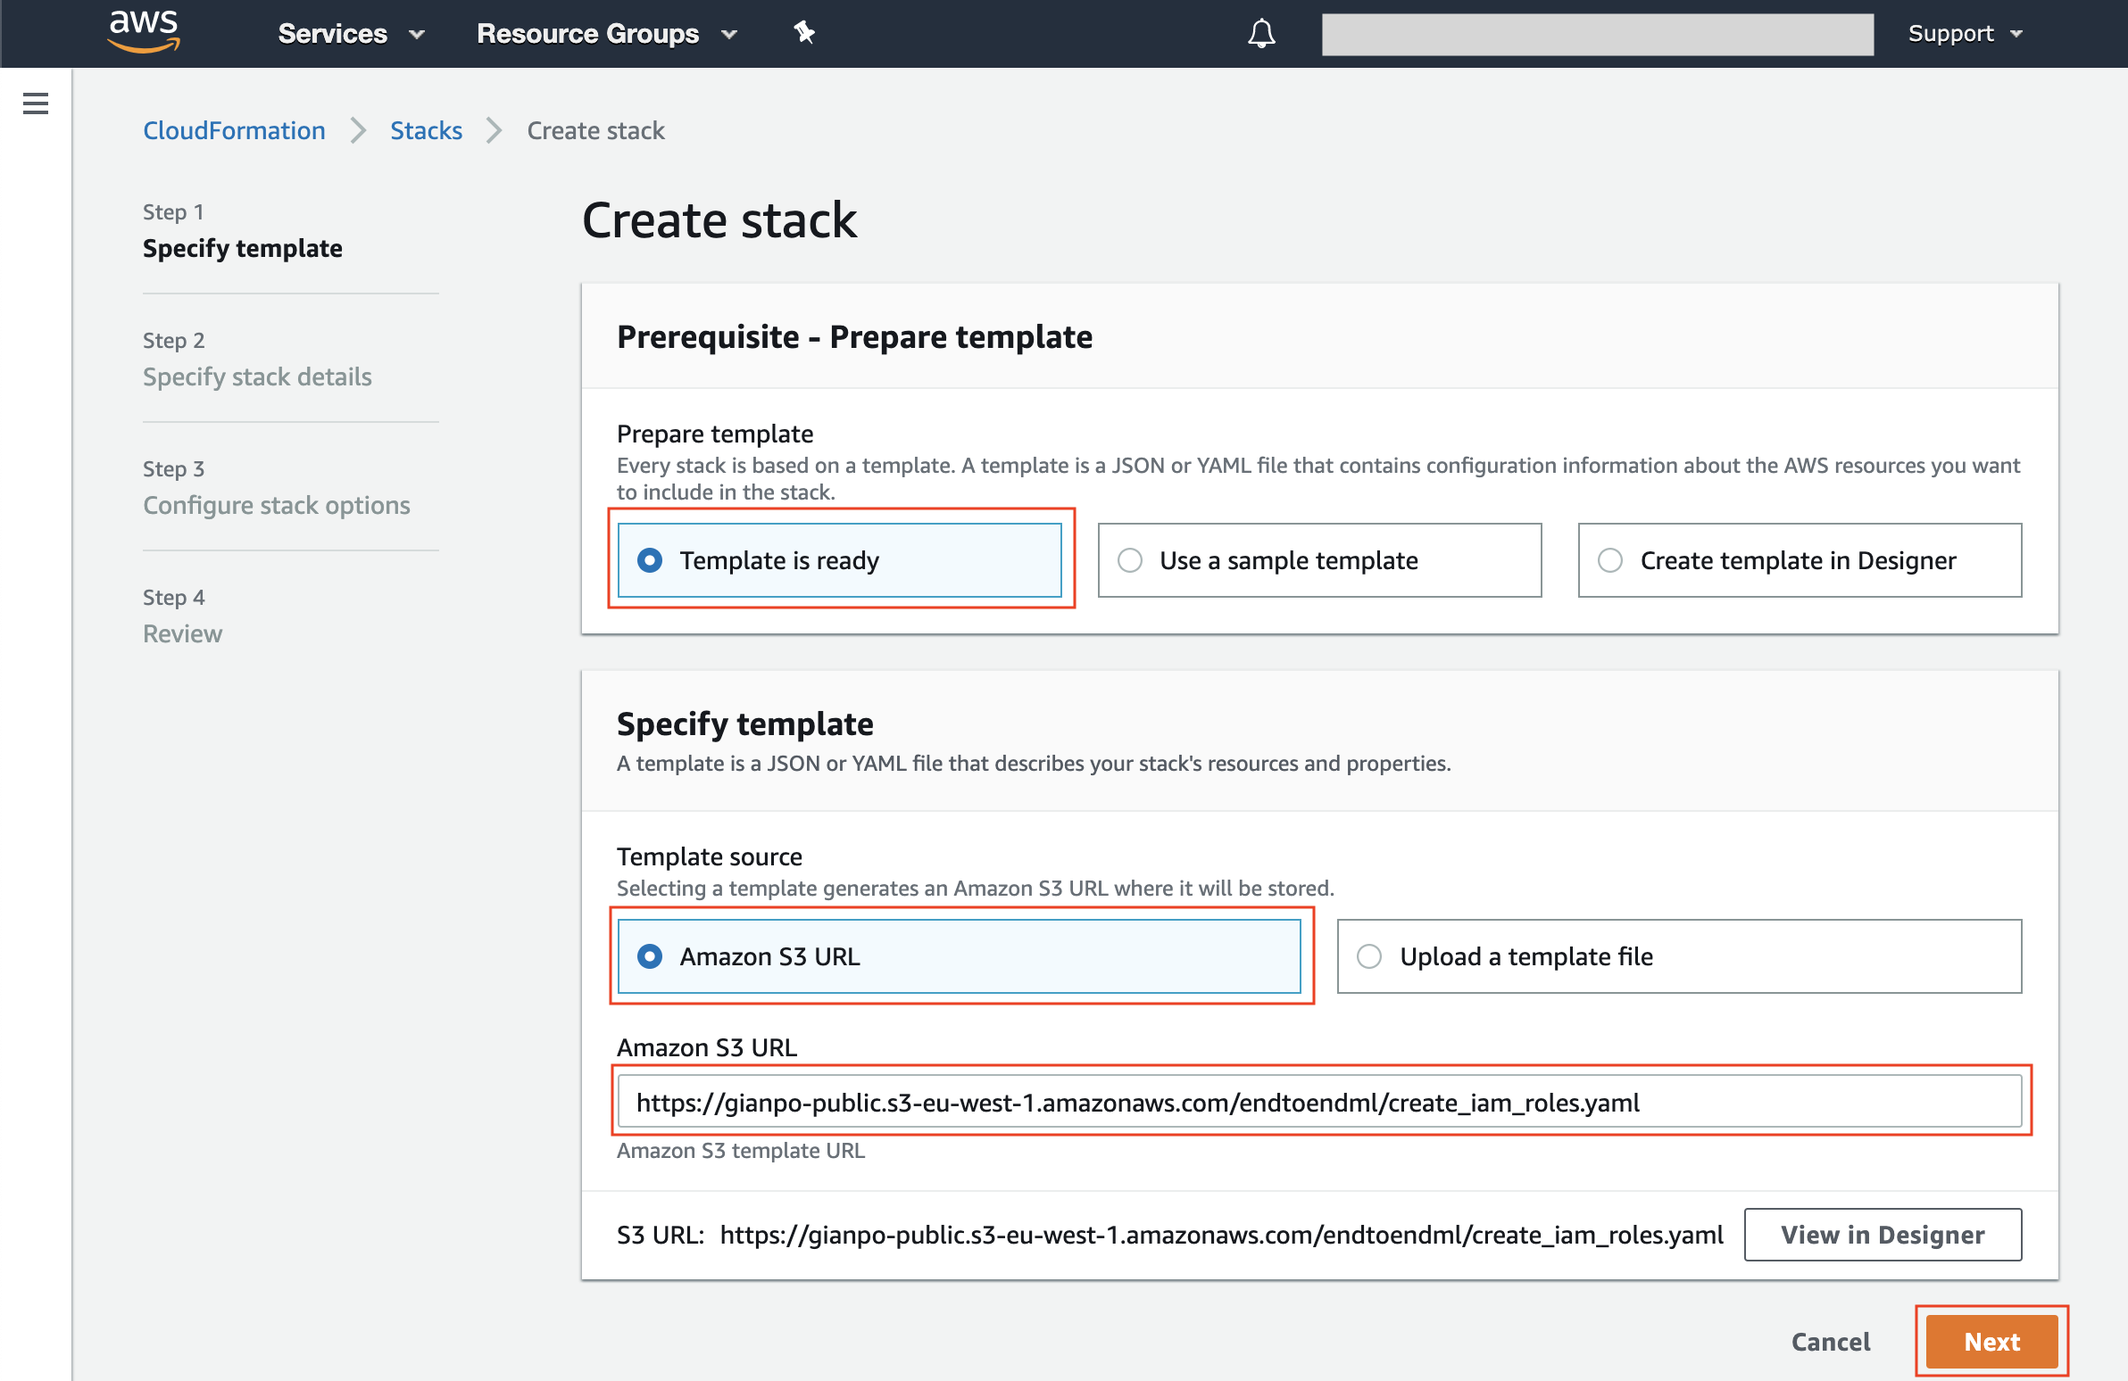
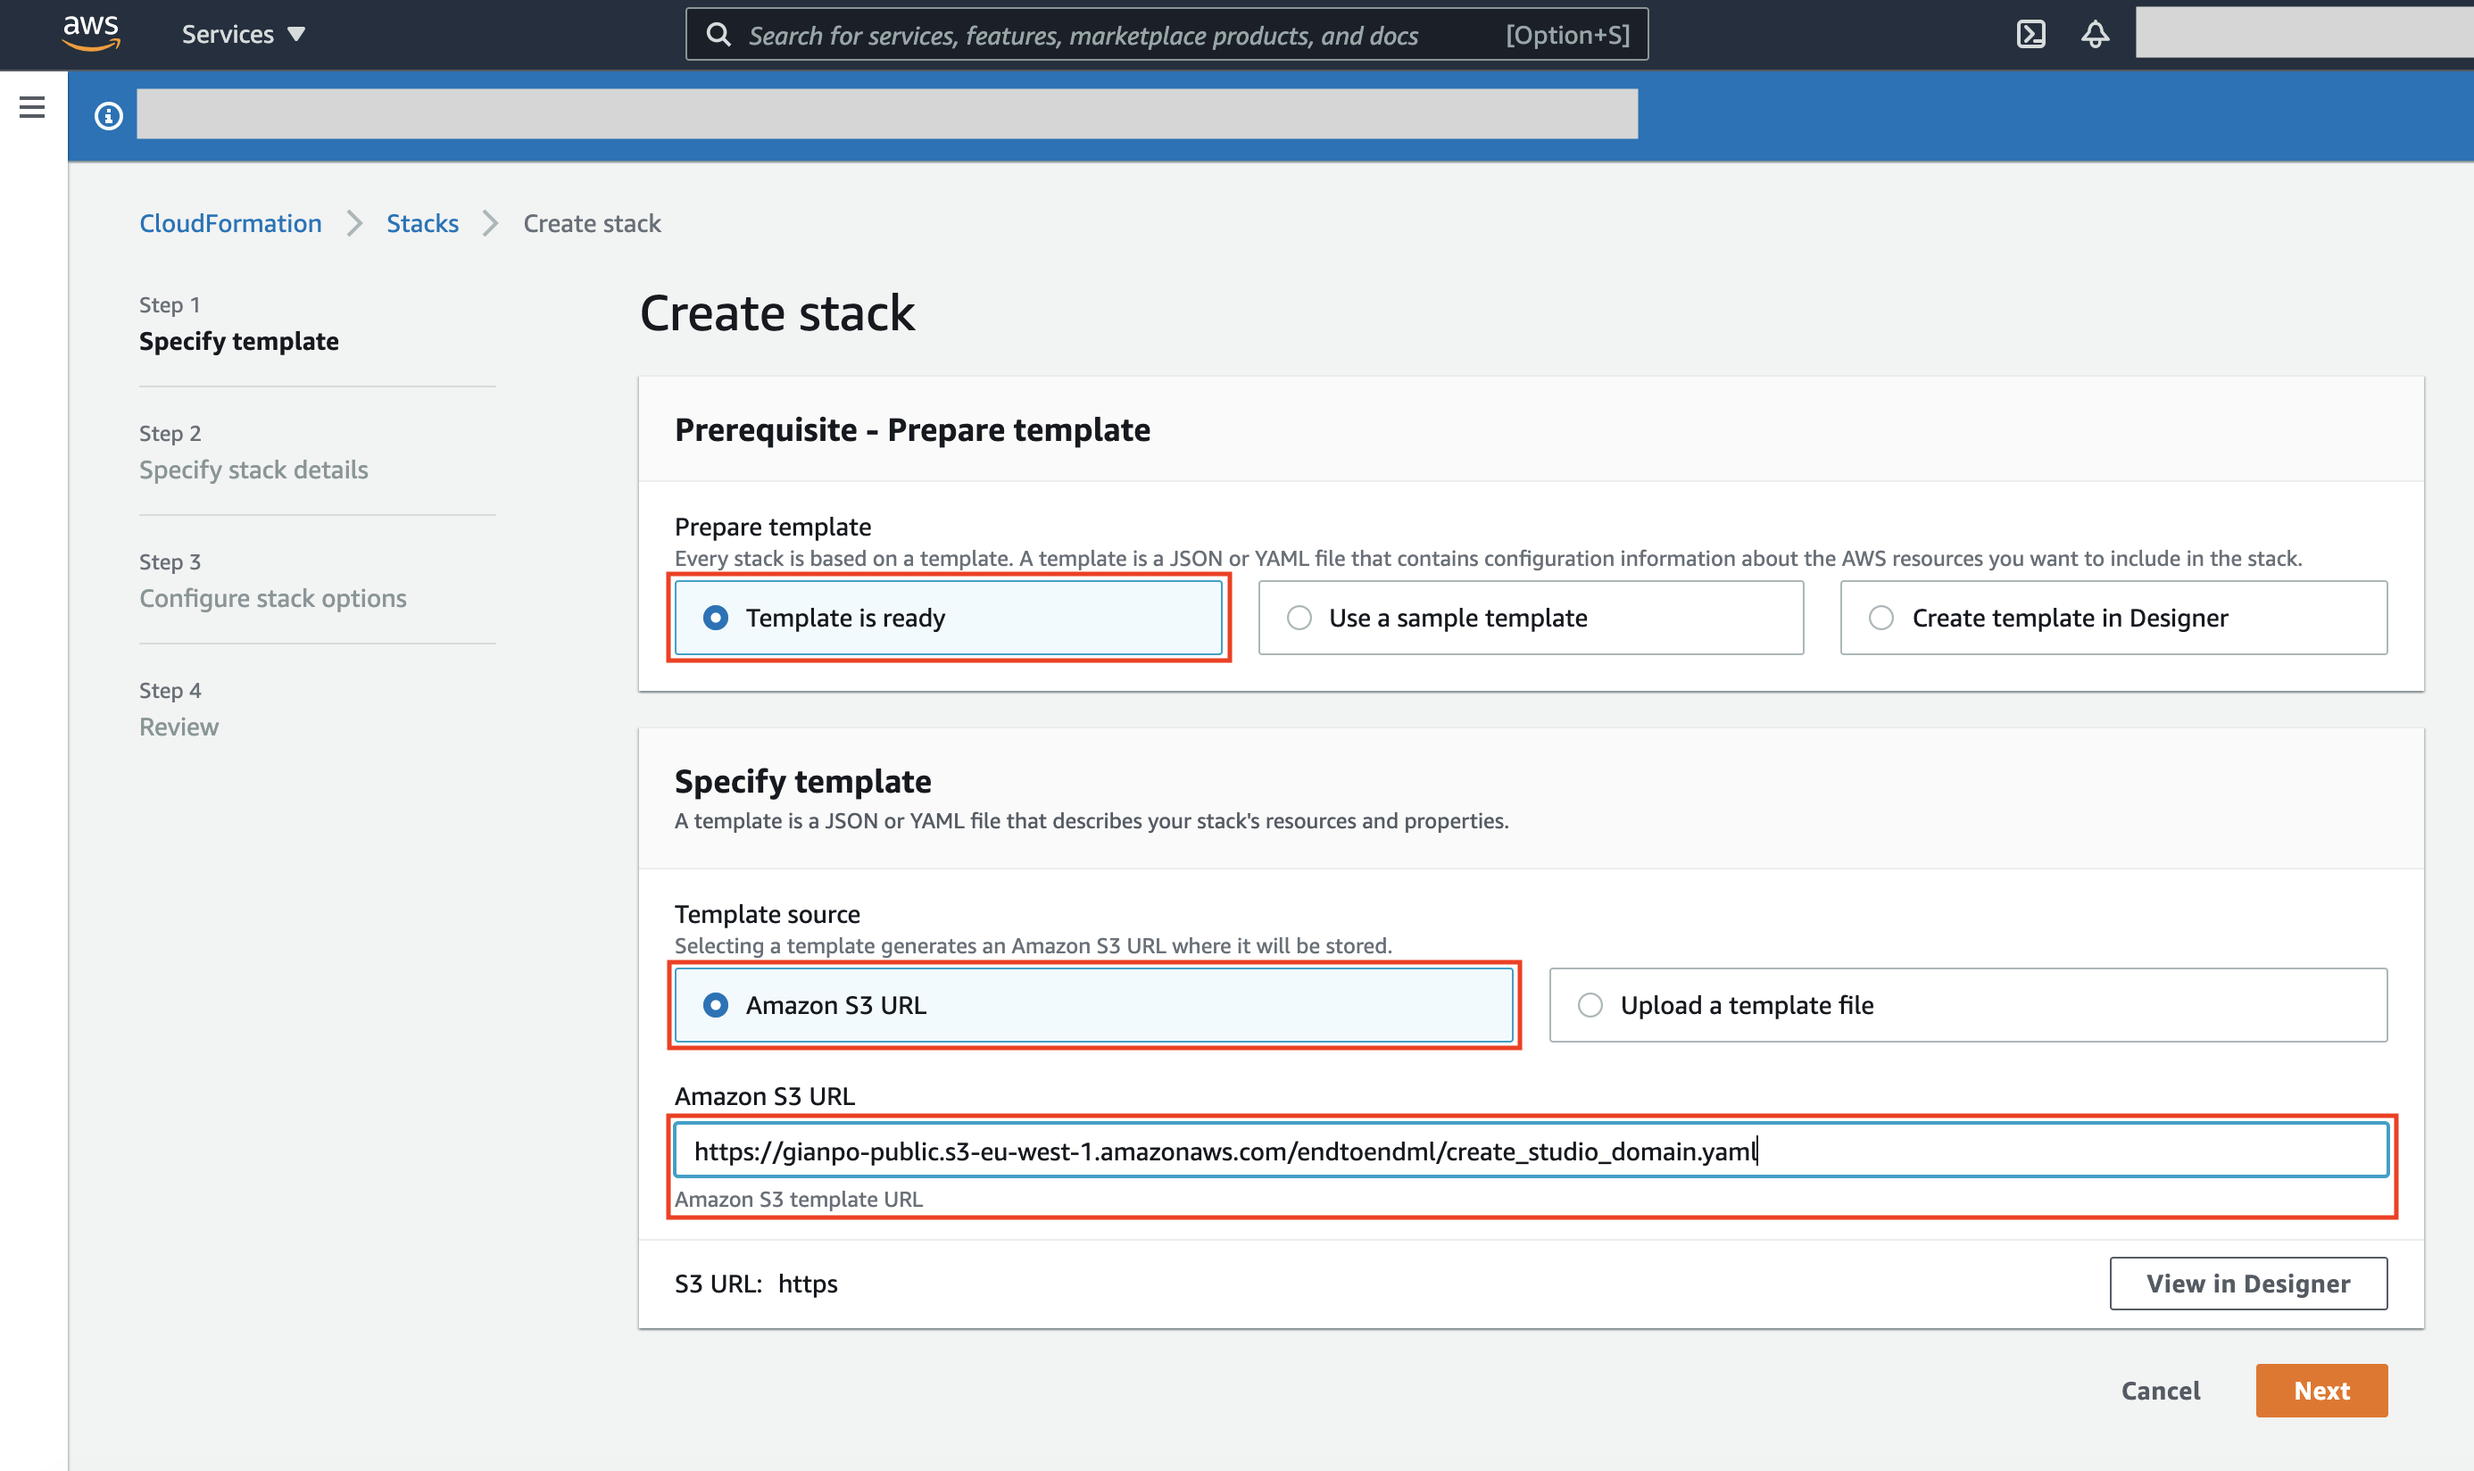
Added CF template for Studio provisioning.
Added CF template for Studio provisioning.

diff --git a/setup/README.md b/setup/README.md
@@ -3,14 +3,15 @@
 > ⚠ **Warning**: The following steps need to be executed **only** if you are going to use **your own AWS account** for the workshop. Please do not execute any action if an AWS account was provided by an AWS instructor.
 
 ## Prerequisites
-If you are going to use your own AWS Account, we assume that you have **administrator privileges** on the account. If this is not the case, please double-check with an AWS instructor before moving to next section.
+If you are going to use your own AWS Account, we assume that you have **administrator privileges** on the account. If this is not the case, please double-check with your AWS system administrator before moving to next section.
 
-## Configure IAM Roles using AWS CloudFormation
-In this section, we will create the AWS IAM (Identity and Access Management) roles that are required to run this workshop. More specifically, we are going to use AWS CloudFormation to create the following roles:
+## Create an Amazon SageMaker Studio domain with AWS CloudFormation
+In this section, we will create the Amazon SageMaker Studio domain and a user profile required to run this workshop. More specifically, we are going to use AWS CloudFormation to create the following resources:
 
-- **AmazonSageMaker-ExecutionRole-endtoendml** - The IAM role assumed by Amazon SageMaker Studio.
-- **GlueServiceRole-endtoendml** - The IAM role used by AWS Glue to access Amazon S3 and AWS Glue APIs.
-- **LambdaInvokeSageMakerEndpointRole-endtoendml** - The IAM role assumed by the AWS Lambda function that will invoke the Amazon SageMaker endpoint to get inferences.
+- An Amazon SageMaker Studio domain
+- An Amazon SageMaker Studio user profile
+- A Data Science app for the user profile
+- The IAM roles required to run the workshop
 
 Please execute the following steps:
 
@@ -29,9 +30,9 @@ Please execute the following steps:
 5. In the **Create stack** screen, select **Template is ready** and **Amazon S3 URL** as shown below, then copy/paste the following URL in the **Amazon S3 URL** text box:
 
 	```
-	https://gianpo-public.s3-eu-west-1.amazonaws.com/endtoendml/create_iam_roles.yaml
+	https://gianpo-public.s3-eu-west-1.amazonaws.com/endtoendml/create_studio_domain.yaml
 	```
-	> **Note**: the URL targets the AWS CloudFormation template which creates the AWS IAM Roles defined above. The template is also available in this GitHub repository for your reference <a href="create_iam_roles.yaml">here</a>.
+	> **Note**: the URL targets the AWS CloudFormation template which creates the resources defined above. The template is also available in this GitHub repository for your reference <a href="create_studio_domain.yaml">here</a>.
 	
 	Finally, press the **Next** button at the bottom of the screen.
 	
